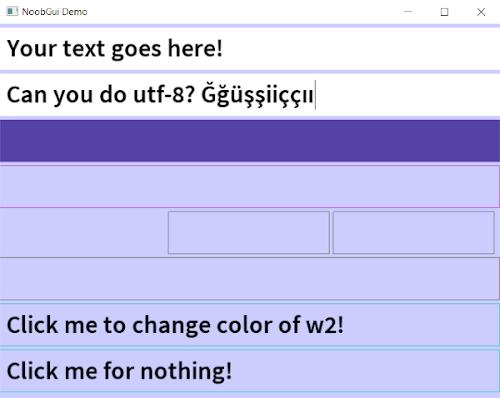
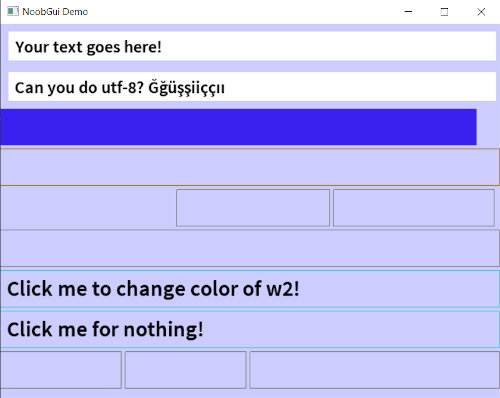
Progress on FlexSizer

diff --git a/README.md b/README.md
@@ -1,5 +1,12 @@
 #An experimental gui lib for Dlang with betterC.
 - Work in progress
 - not ready for anything
+## implemented features so far
+- Runs on single window for now.
+- @nogc betterC widget inheritance.
+- Layout mechanizm : Sizer and FlexSizer with padding, margins.
+- TextCtrl with cursor and utf8 support (no clipboard support yet).
+- Button (drawing needs improvements).
+- Handling mouse clicks and text input.
 
 ![](demo.png)
